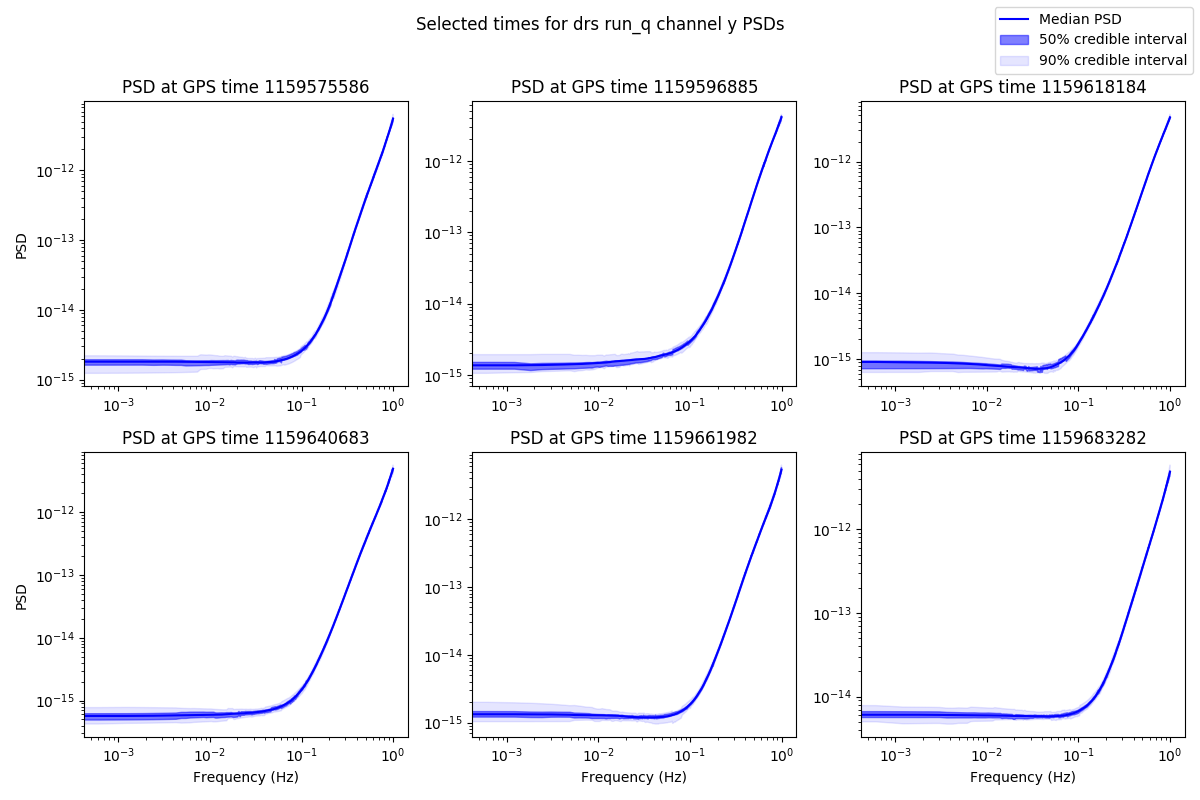
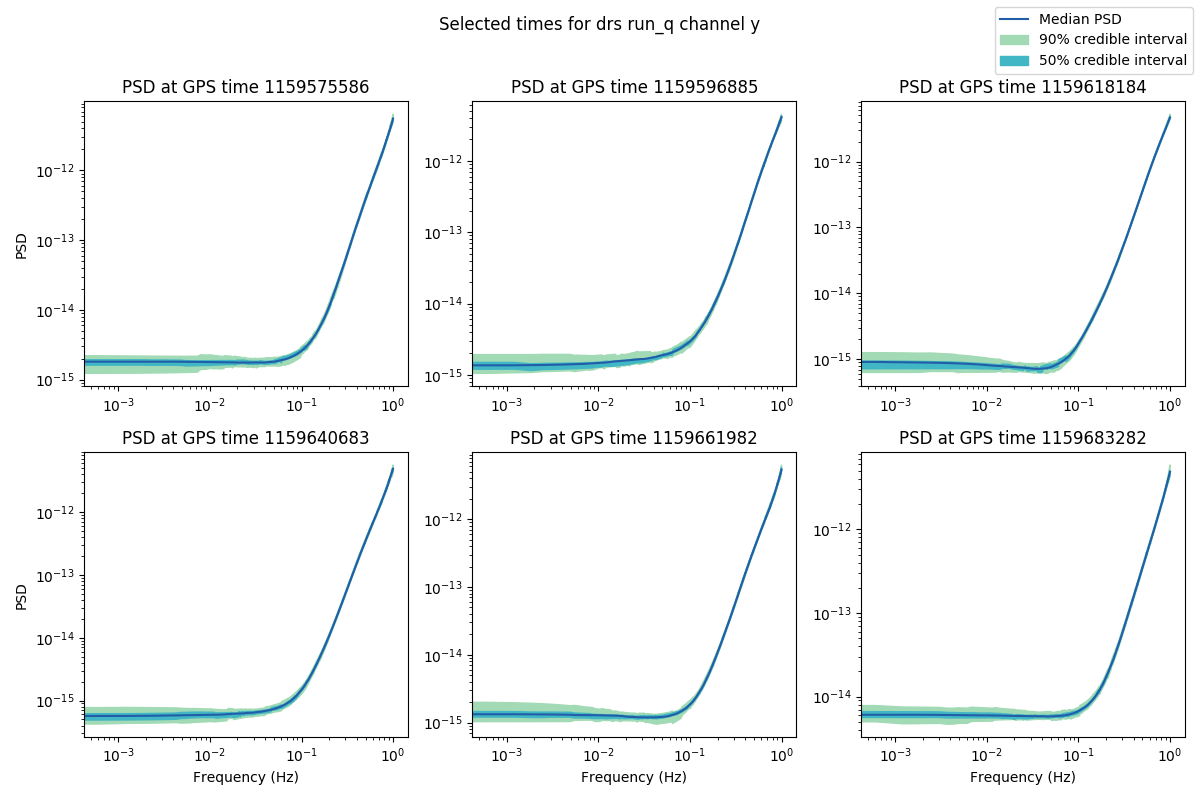
updated slice graph colors

diff --git a/src/plot.py b/src/plot.py
@@ -118,7 +118,7 @@ def all_psds(fig, ax, time_dir, channel, xlim=None, ylim=None):
     ax.set_xscale('log')
     ax.set_yscale('log')
     
-def freq_slice(fig, ax, run, freq, summary, color='b', ylim=None):
+def freq_slice(fig, ax, run, freq, summary, ylim=None):
     '''
     Plots time vs PSD at a specific frequency.
 
@@ -137,22 +137,22 @@ def freq_slice(fig, ax, run, freq, summary, color='b', ylim=None):
     fslice = summary.xs(freq, level='FREQ')
     # Date stuff
     days_elapsed = run.gps2day(fslice.index)
-    # Plot 50% credible interval
-    ax.fill_between(days_elapsed,
-        fslice['CI_50_LO'],
-        fslice['CI_50_HI'], 
-        color=color,
-        alpha=0.5,
-        label='50% credible interval')
     # Plot 90% credible interval
     ax.fill_between(days_elapsed,
         fslice['CI_90_LO'],
         fslice['CI_90_HI'],
-        color=color,
-        alpha=0.2,
+        color='#b3cde3',
+        #alpha=0.2,
         label='90% credible interval')
+    # Plot 50% credible interval
+    ax.fill_between(days_elapsed,
+        fslice['CI_50_LO'],
+        fslice['CI_50_HI'], 
+        color='#8c96c6',
+        #alpha=0.5,
+        label='50% credible interval')
     # Plot median
-    ax.plot(days_elapsed, fslice['MEDIAN'], label='Median PSD', color=color)
+    ax.plot(days_elapsed, fslice['MEDIAN'], label='Median PSD', color='#88419d')
     # Vertical scale
     if ylim: 
         ax.set_ylim(ylim)
@@ -164,7 +164,7 @@ def freq_slice(fig, ax, run, freq, summary, color='b', ylim=None):
         ax.set_ylim((max(med - 2 * lo, 0), med + 2 * hi))
     ax.title.set_text(str(np.around(freq*1000, 3)) + ' mHz')
 
-def time_slice(fig, ax, time, summary, color='b', ylim=None, logpsd=False):
+def time_slice(fig, ax, time, summary, ylim=None, logpsd=False):
     '''
     Plots frequency vs PSD at a specific time.
 
@@ -179,24 +179,22 @@ def time_slice(fig, ax, time, summary, color='b', ylim=None, logpsd=False):
     '''
     # Get time slice
     tslice = summary.xs(time)
-    # Plot 50% credible interval
-    ax.fill_between(tslice.index, 
-        tslice['CI_50_LO'], 
-        tslice['CI_50_HI'],
-        color=color, 
-        alpha=0.5,
-        label='50% credible interval')
     # Plot 90% credible interval
     ax.fill_between(tslice.index, 
         tslice['CI_90_LO'], 
         tslice['CI_90_HI'],
-        color=color, 
-        alpha=0.1,
+        color='#a1dab4', 
+        #alpha=0.1,
         label='90% credible interval')
+    # Plot 50% credible interval
+    ax.fill_between(tslice.index, 
+        tslice['CI_50_LO'], 
+        tslice['CI_50_HI'],
+        color='#41b6c4', 
+        #alpha=0.5,
+        label='50% credible interval')
     # Plot median
-    ax.plot(tslice.index, tslice['MEDIAN'], 
-        label='Median PSD', 
-        color=color)
+    ax.plot(tslice.index, tslice['MEDIAN'], label='Median PSD', color='#225ea8')
     ax.set_xscale('log')
     if ylim: ax.set_ylim(ylim)
     if logpsd: ax.set_yscale('log')
@@ -234,7 +232,7 @@ def save_freq_slices(run, channel, plot_file, show=False,
     nrows = int(np.floor(len(frequencies) ** 0.5))
     ncols = int(np.ceil(1. * len(frequencies) / nrows))
     fig = plt.figure(figsize=(4 * ncols, 4 * nrows))
-    fig.suptitle(f'Selected frequencies for {run.mode} {run.name} channel {channel} PSDs')
+    fig.suptitle(f'Selected frequencies for {run.mode} {run.name} channel {channel}')
     df = run.psd_summary.loc[channel]
     # Subplots
     for i, freq in enumerate(frequencies):
@@ -264,7 +262,7 @@ def save_time_slices(run, channel, times, plot_file=None, show=False,
     nrows = int(np.floor(float(len(times)) ** 0.5))
     ncols = int(np.ceil(1. * len(times) / nrows))
     fig = plt.figure(figsize=(4 * ncols, 4 * nrows))
-    fig.suptitle(f'Selected times for {run.mode} {run.name} channel {channel} PSDs')
+    fig.suptitle(f'Selected times for {run.mode} {run.name} channel {channel}')
     df = run.psd_summary.loc[channel]
     # Subplots
     for i, time in enumerate(times):

diff --git a/README.md b/README.md
@@ -41,7 +41,7 @@ psd.dat.99
 
 ## PSD analysis
 
-Execute `$ src/psd.py 'run_a' 'run_b' ...`
+Execute `$ src/psd.py 'data/<mode>/run_a' 'data/<mode>/run_b' ...`
 
 The script will first generate and save summary DataFrames, and then create
 colormap, time slice, and frequency slice plots for each channel. Summaries
@@ -59,7 +59,7 @@ If no arguments are specified, the script will run on all runs within the
 
 ## Spectral line analysis
 
-Execute `$ src/linechain.py 'run_a' 'run_b' ...`
+Execute `$ src/linechain.py 'data/<mode>/run_a' 'data/<mode>/run_b' ...`
 
 This script looks at the time variation of spectral line parameters. It draws
 from the `linechain_channel<X>.dat` files and finds the median value and
